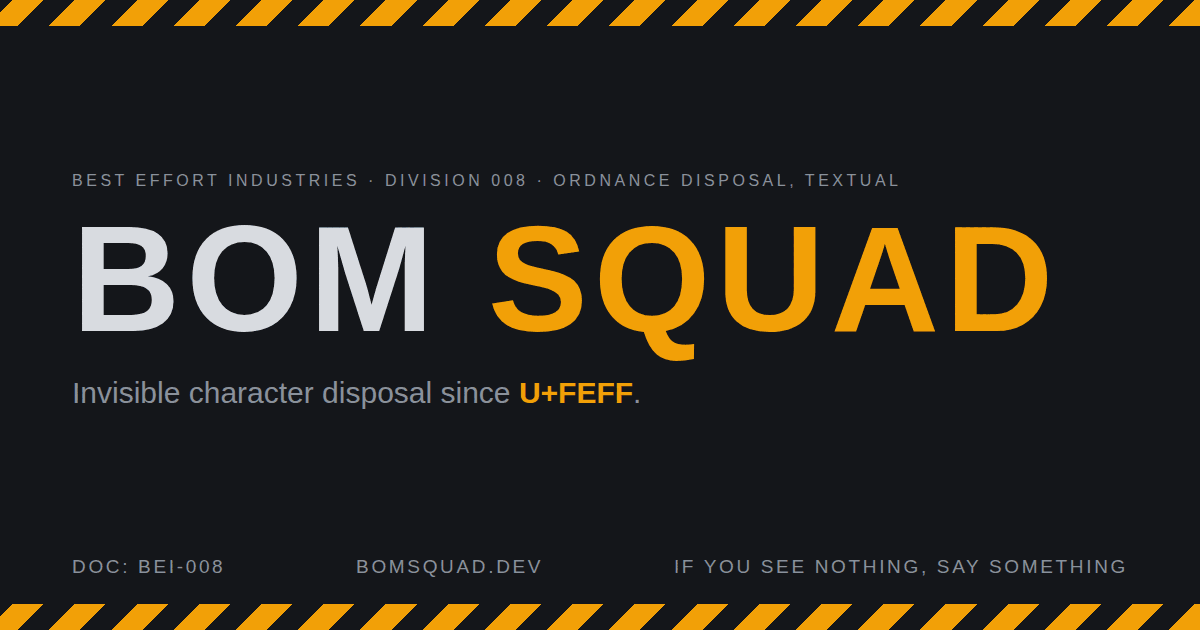
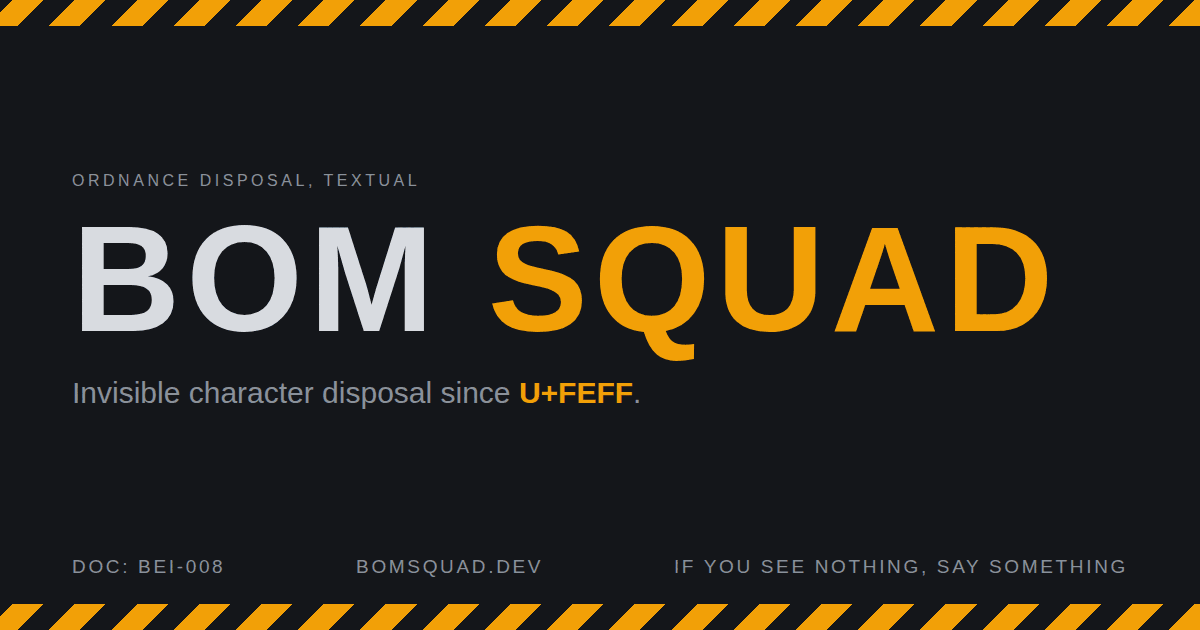
Drop the parent-company line from the 404 and share assets

Changed region(s): [[0.0617, 0.2714, 0.74, 0.3016]]

diff --git a/tools/og.html b/tools/og.html
@@ -51,7 +51,7 @@
 <body>
   <div class="stripe"></div>
   <div class="mid">
-    <div class="unit">Best Effort Industries · Division 008 · Ordnance Disposal, Textual</div>
+    <div class="unit">Ordnance Disposal, Textual</div>
     <h1>BOM <span>SQUAD</span></h1>
     <p class="tagline">Invisible character disposal since <b>U+FEFF</b>.</p>
   </div>

diff --git a/404.html b/404.html
@@ -54,7 +54,7 @@
 <main>
   <header>
     <div class="wrap">
-      <div class="unit">Best Effort Industries · Division 008 · Ordnance Disposal, Textual</div>
+      <div class="unit">Ordnance Disposal, Textual</div>
       <h1>404</h1>
       <p class="tag">Nothing here. With our line of work, that is the desired outcome.</p>
     </div>
